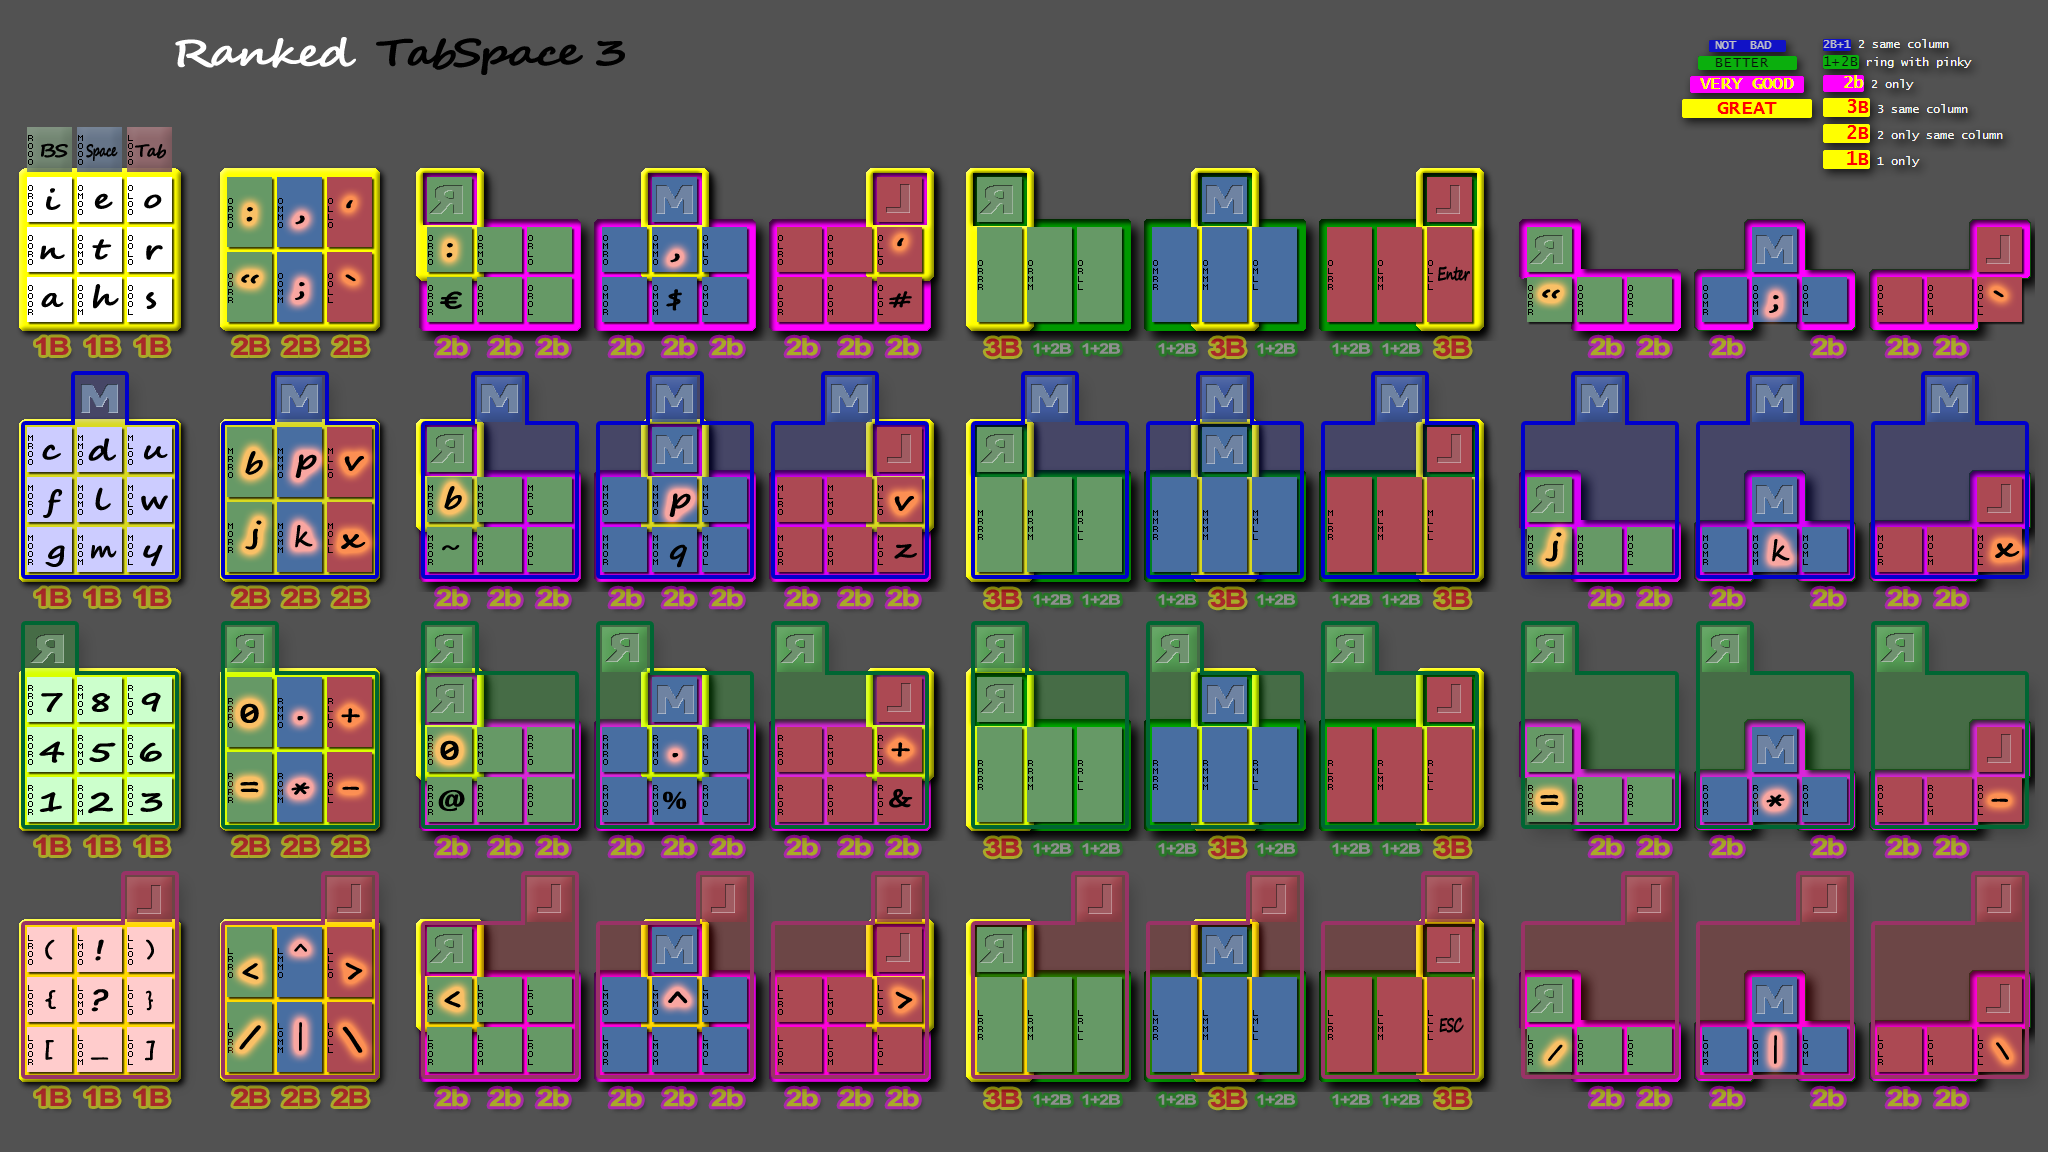
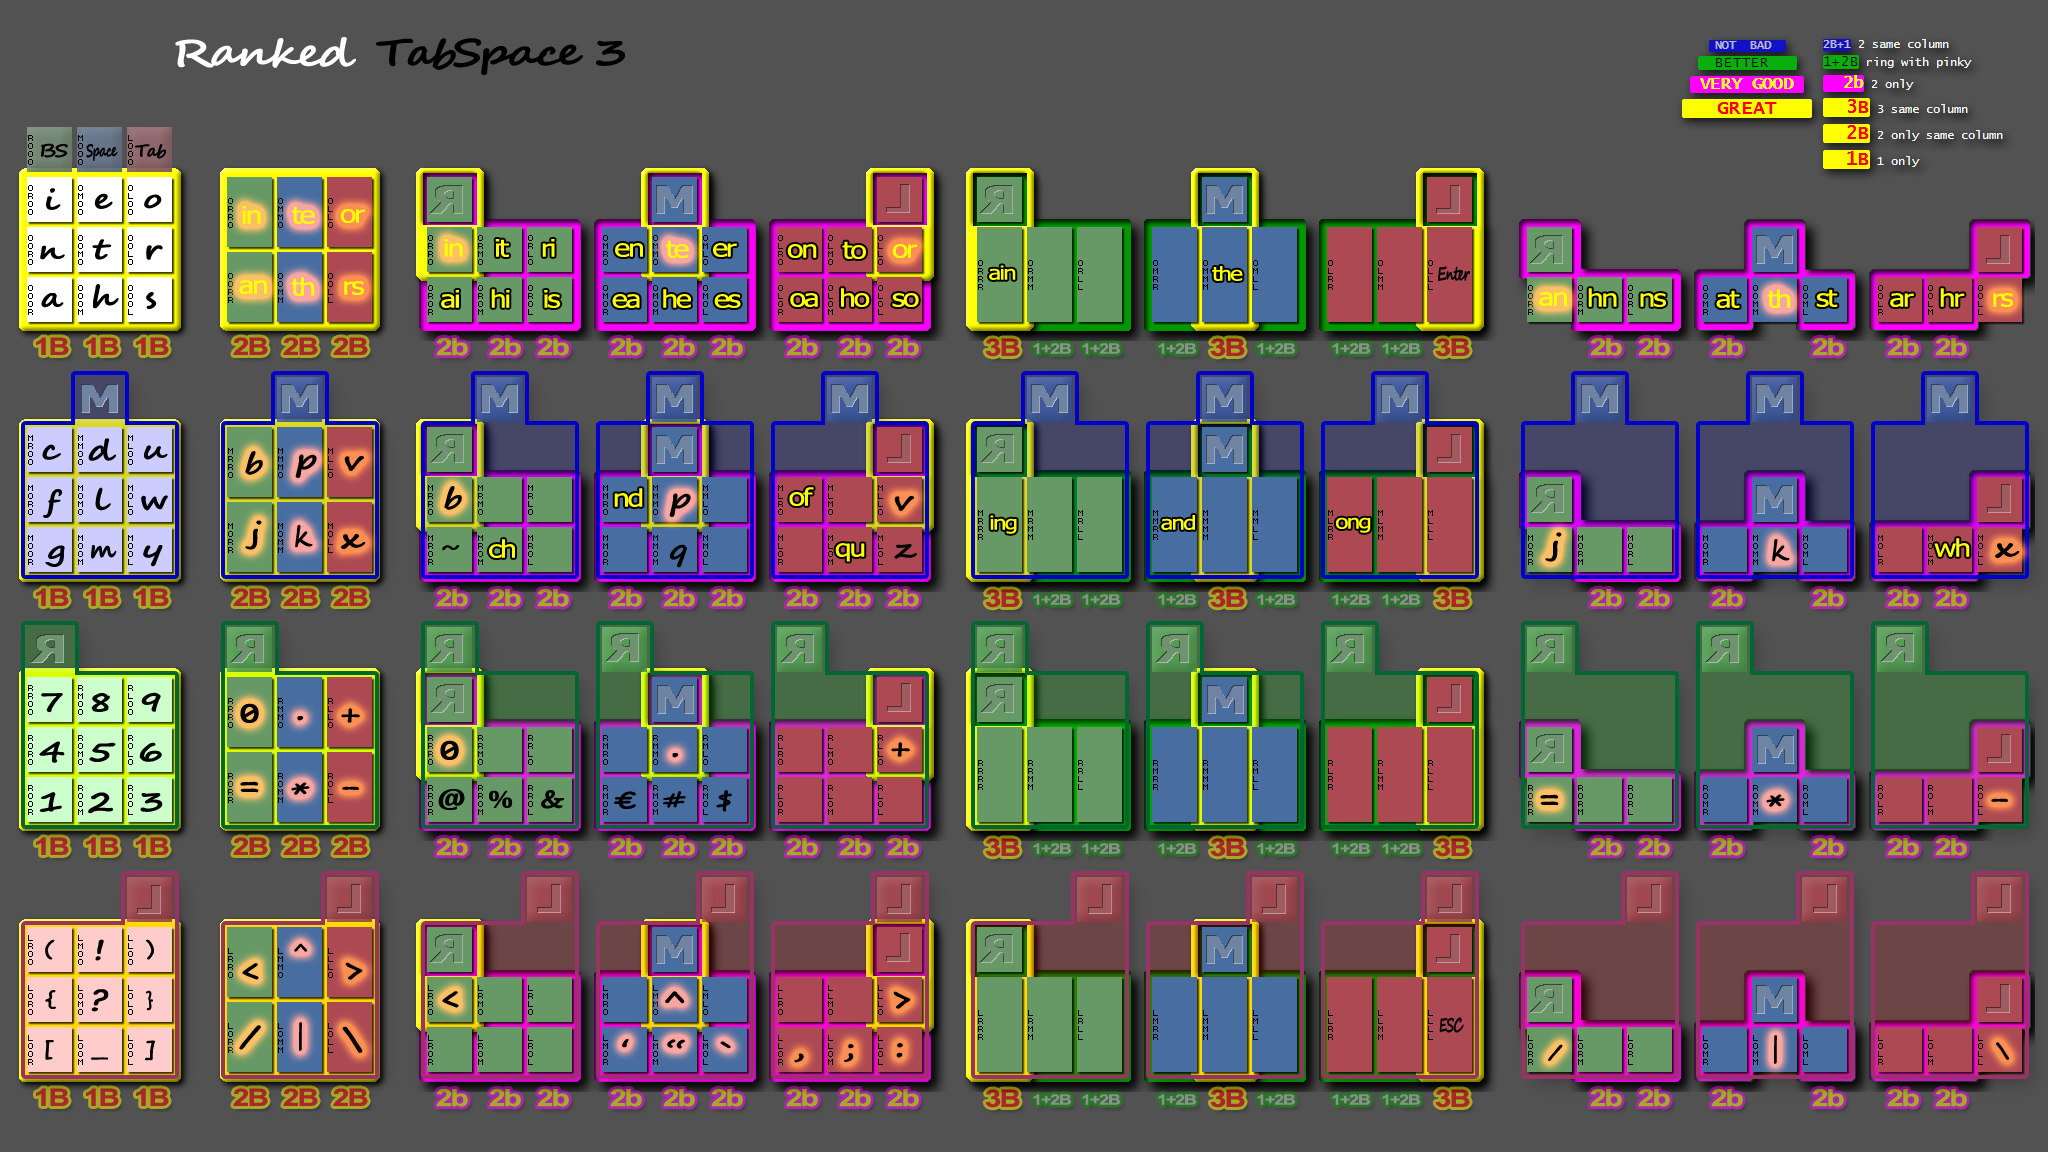
2 and 3 letter words removed from Num layer :,' and ";` moved from O2 to L4-L5 Applying rules layout borders

diff --git a/index.html b/index.html
@@ -1141,11 +1141,11 @@ in terms or <em>rows</em>, <em>columns</em> and <em>pads</em>.</pre>
   <div id="div_applying_rules" class="collapsed" style="background-color:#efe !important;">
    <p><!-- ...intro {{{ -->
    <p>
-   Now, we have to find matches between both our symbol categories and layout categories.
-   At each stage, the best available layout clusters must be
-   matched with the most significant symbol clusters not yet assigned.
-   Symbol clusters will consist in groups of functionally or visually related symbols.
-   Our priorities will also take into account their usage frequency and how well
+   Now, we have to find matchups with both our symbol and layout categories.
+   At each stage, the best available <em>layout clusters</em> must be
+   matched with the most significant <em>symbol clusters</em> not yet assigned.
+   Symbol clusters will consist in <em>groups of <em>functionally</em> or visually</em> related symbols.
+   Our priorities will also take into account their <em>usage frequency</em> and how well
    each row, pad and cluster appears to be put at good use.
 
    </p>
@@ -1182,8 +1182,8 @@ in terms or <em>rows</em>, <em>columns</em> and <em>pads</em>.</pre>
    <!-- }}} -->
    <!-- R clusters {{{ -->
    <div class="div_map">
-    <div class="clip_map"><img class="clip_map_R1" src="images/Cheat_TabSpace_3.png" onclick='toggle_div(this,"applying_rules_arithmetic");' title="Arithmetic..."></div>
-    <div class="clip_map"><img class="clip_map_R2" src="images/Cheat_TabSpace_3.png" onclick='toggle_div(this,"applying_rules_arithmetic");' title="Arithmetic..."></div>
+    <div class="clip_pad"><img class="clip_map_R1" src="images/Cheat_TabSpace_3.png" onclick='toggle_div(this,"applying_rules_arithmetic");' title="Arithmetic..."></div>
+    <div class="clip_pad"><img class="clip_map_R2" src="images/Cheat_TabSpace_3.png" onclick='toggle_div(this,"applying_rules_arithmetic");' title="Arithmetic..."></div>
     <div class="clip_map"><img class="clip_map_R3" src="images/Cheat_TabSpace_3.png"></div>
     <div class="clip_map"><img class="clip_map_R4" src="images/Cheat_TabSpace_3.png"></div>
     <div class="clip_map"><img class="clip_map_R5" src="images/Cheat_TabSpace_3.png"></div>
@@ -1197,8 +1197,8 @@ in terms or <em>rows</em>, <em>columns</em> and <em>pads</em>.</pre>
    <!-- }}} -->
    <!-- L clusters {{{ -->
    <div class="div_map">
-    <div class="clip_map"><img class="clip_map_L1" src="images/Cheat_TabSpace_3.png"></div>
-    <div class="clip_map"><img class="clip_map_L2" src="images/Cheat_TabSpace_3.png" onclick='toggle_div(this,"applying_rules_signs");' title="Signs..."></div>
+    <div class="clip_pad"><img class="clip_map_L1" src="images/Cheat_TabSpace_3.png" onclick='toggle_div(this,"applying_rules_signs");' title="Signs..."></div>
+    <div class="clip_pad"><img class="clip_map_L2" src="images/Cheat_TabSpace_3.png" onclick='toggle_div(this,"applying_rules_signs");' title="Signs..."></div>
     <div class="clip_map"><img class="clip_map_L3" src="images/Cheat_TabSpace_3.png"></div>
     <div class="clip_map"><img class="clip_map_L4" src="images/Cheat_TabSpace_3.png"></div>
     <div class="clip_map"><img class="clip_map_L5" src="images/Cheat_TabSpace_3.png"></div>
@@ -1238,6 +1238,13 @@ in terms or <em>rows</em>, <em>columns</em> and <em>pads</em>.</pre>
     <br>put them close to the <em>R1 single x9</em> numberpad.
 </div>
 <!-- }}} -->
+    <div class="rules"><!-- {{{ -->
+     <em>uncomfortable modifier</em>
+     <br>
+     This <em class="fingers">INDEX BACKSPACE MODIFIER</em> is not an easy one
+     <br>&hellip; needs some checking to see how it goes &hellip;
+    </div>
+     <!-- }}} -->
 
 <!-- 0 {{{ -->
    <div class="fold_title" onclick='toggle_div(this, "applying_rules_arithmetic_0");'><em>0</em></div>
@@ -1286,7 +1293,6 @@ in terms or <em>rows</em>, <em>columns</em> and <em>pads</em>.</pre>
    <p>
    <div class="rules"><em>shapes symmetry</em><!-- {{{ -->
     <br>&hellip;5 symbol pairs
-    <br>&hellip;<em>()</em> <em>{}</em> <em>[]</em> disposed from top to bottom &mdash; as on a standard keyboard
    </div><!-- }}} -->
     <div class="rules"><em>pads proximity</em><!-- {{{ -->
     <br>&hellip;both pads from <em class='fingers'>INDEX Tab modifier</em>
@@ -1312,6 +1318,13 @@ in terms or <em>rows</em>, <em>columns</em> and <em>pads</em>.</pre>
    row)</i>
    </p>
 </div>
+
+<hr>
+ <ul>
+  <li><em>()</em> <em>{}</em> <em>[]</em> are disposed, from top to bottom, in the same order as on a standard keyboard.  </li>
+  <li><em>&lt;</em><em>^</em><em>&gt;</em> will be easily remembered</li>
+  <li><em>/</em><em>|</em><em>\</em> also form some distinctive shape</li>
+ </ul>
 
    </div> <!-- }}} -->
    <!-- twiddler3_locks {{{ -->

diff --git a/stylesheets/twiddler.css b/stylesheets/twiddler.css
@@ -257,19 +257,22 @@
 .div_map img { opacity:0.5; filter:alpha(opacity= 50); }
 .div_map img:hover { opacity:0.8 !important; filter:alpha(opacity= 80) !important; }
 
-.clip_map  { overflow:hidden;     width: 40px;     height: 53px; margin:0 0 5px 2px; display:inline-block; cursor:pointer; }
-.clip_map  {
+.div_map div  { overflow:hidden;     width: 40px;     height: 53px; margin:0 0 5px 2px; display:inline-block; cursor:pointer; }
+.div_map div  {
   -webkit-box-shadow: rgba(0, 0, 0, 0.1) 0 0 0 1px, rgba(0, 0, 0, 0.5) 0 3px 10px;
      -moz-box-shadow: rgba(0, 0, 0, 0.1) 0 0 0 1px, rgba(0, 0, 0, 0.5) 0 3px 10px;
           box-shadow: rgba(0, 0, 0, 0.1) 0 0 0 1px, rgba(0, 0, 0, 0.5) 0 3px 10px;
 	  cursor:pointer;
-	  border:1px outset white;
+	  border:3px solid white;
 }
-.clip_map:hover  {
+.div_map div:hover  {
   -webkit-box-shadow:none;
      -moz-box-shadow:none;
           box-shadow:none;
-	  border:1px outset white;
+	  border:3px solid white;
+}
+.clip_pad {
+    border:3px #666 solid !important;
 }
 
 .clip_map_O1   {                  max-width: 512px; margin-left:  -5px; margin-top:-31px; }

diff --git a/stylesheets/styles.css b/stylesheets/styles.css
@@ -372,7 +372,7 @@ footer p + p {
 }
 
 em { box-shadow: rgba(0, 0, 0, 0.2) 0 0.1em 0.1em; }
-em { padding:0 .5ex 0 .5ex; }
+em { padding:.2ex .5ex .2ex .5ex; }
 
 .collapsed { display:none;  }
 .expanded {
